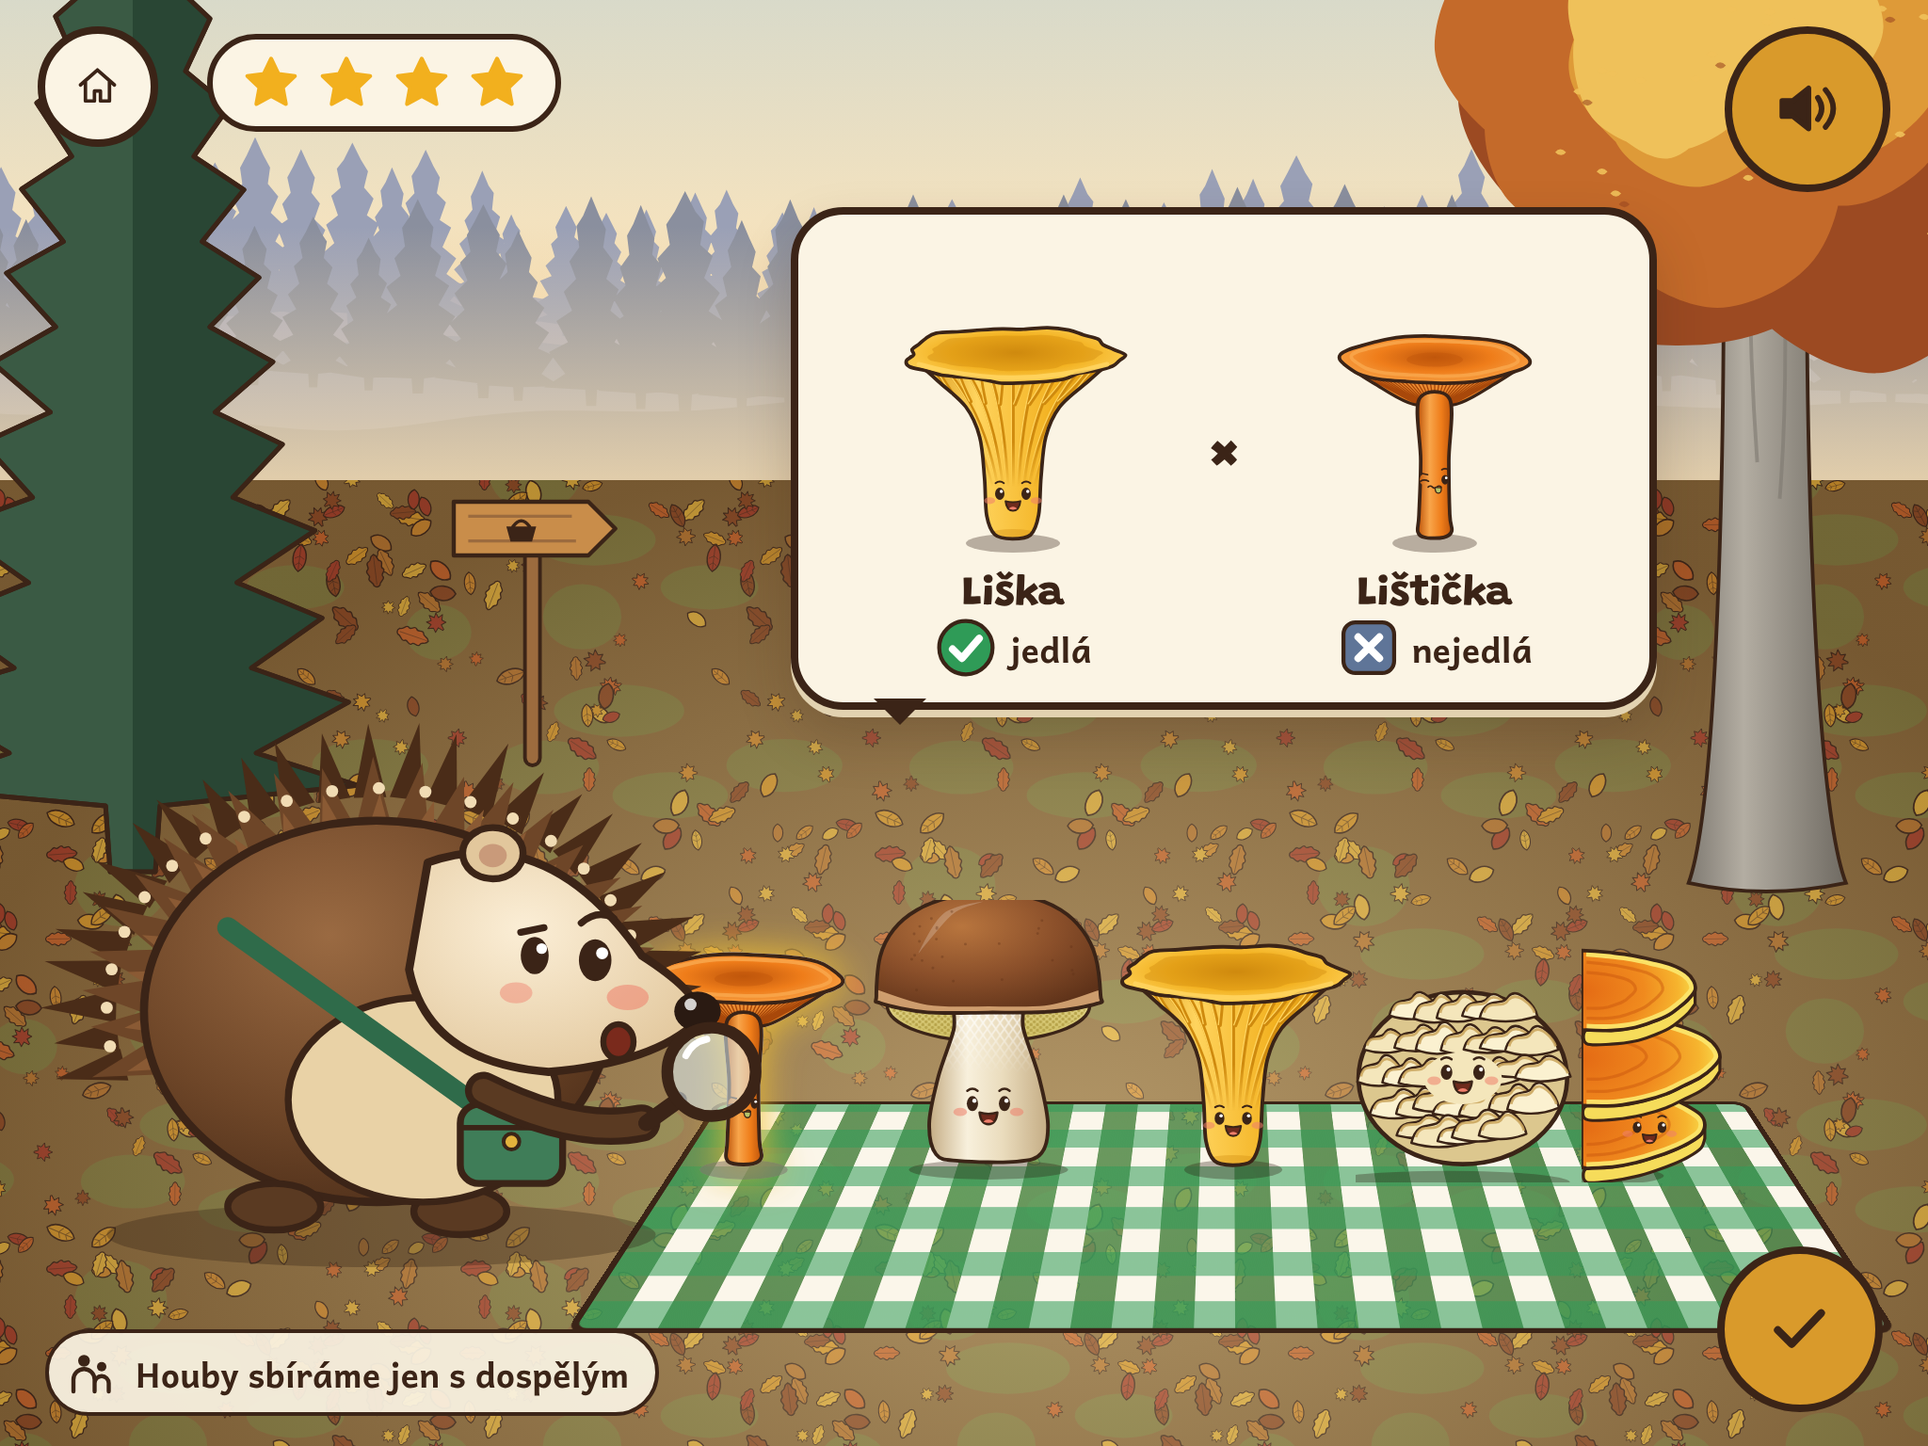
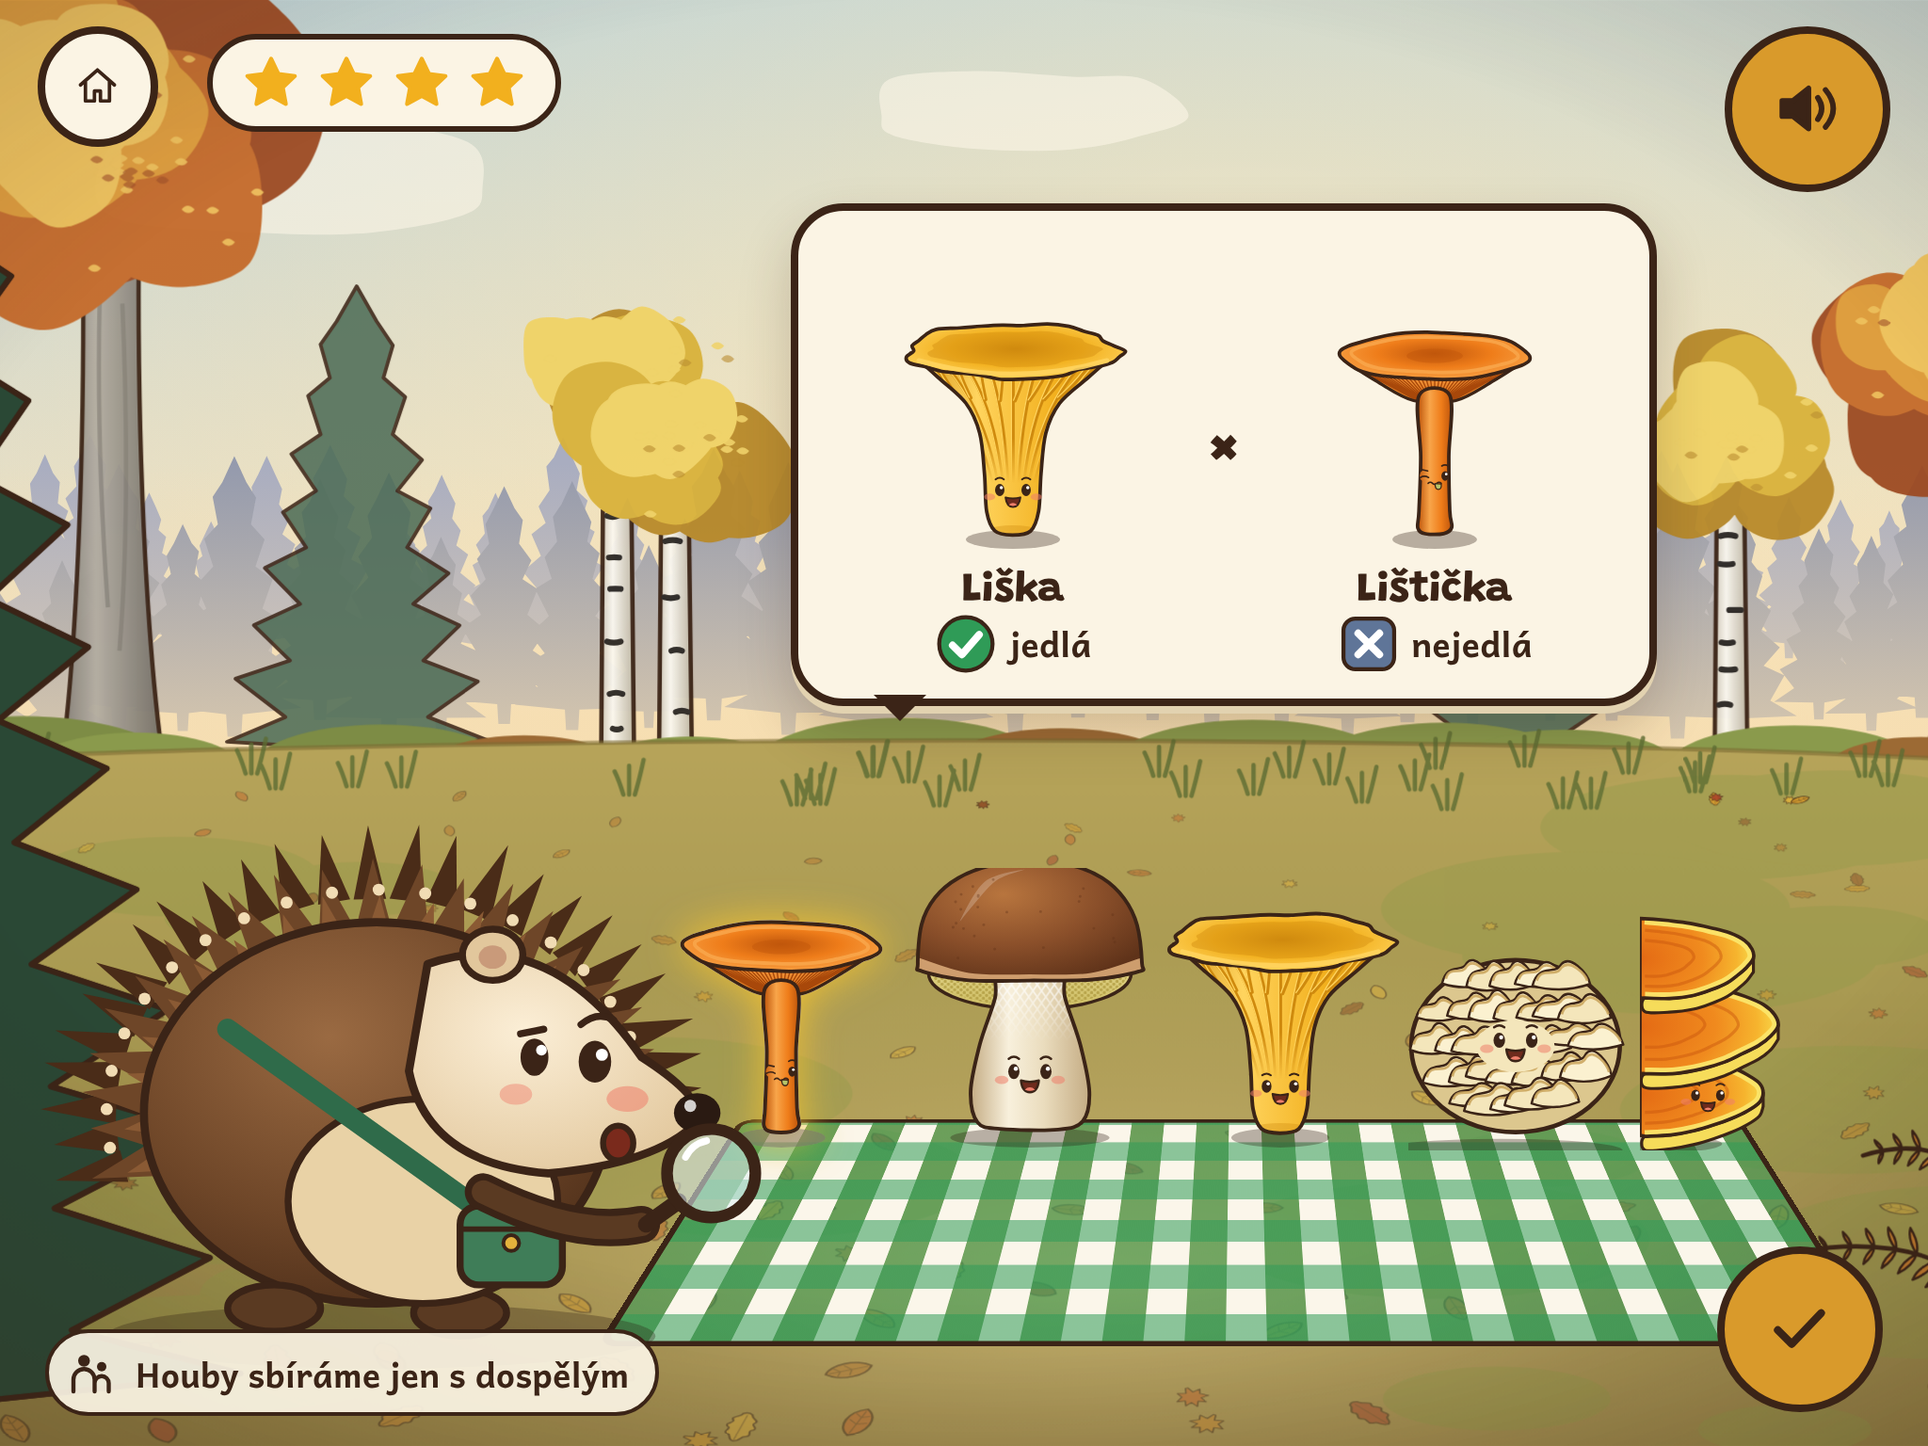
v2 design: paseka pro závěrečnou kontrolu, veverka šplhá po kmeni (designér)
Claude-Session: https://claude.ai/code/session_01WH2RXcc1LwoVwxRFSRQhpb

diff --git a/design/build_side.py b/design/build_side.py
@@ -463,10 +463,127 @@ def fork_sign():
     return doc("side-fork-sign", 220, 340, body, extra=' data-foot="100 330"', label="Rozcestí")
 
 
+# ---------------------------------------------------------------- end-check clearing (static backdrop)
+
+def end_clearing():
+    """Cosy forest clearing for the hedgehog's basket check. 1600x1000 (16:10); shown with
+    preserveAspectRatio xMidYMid slice, so 4:3 crops x 133..1467. Quiet zones (no detail, low contrast):
+      HUD top-left  x 0–45 % y 0–12 %      buttons top-right x 68–100 % y 0–40 %
+      hedgehog      x 0–36 % y 50–100 %    cloth + finds     x 28–100 % y 56–94 %
+    Interest lives in the tree line (y 30–56 %) and the outer side edges."""
+    R = seed(260)
+    W, H = 1600, 1000
+    HZ = 520                       # where the clearing floor meets the tree line
+    defs = ('<linearGradient id="ec-sky" x1="0" y1="0" x2="0" y2="1"><stop offset="0" stop-color="#bfd4d8"/>'
+            '<stop offset=".45" stop-color="#f3e2bf"/><stop offset="1" stop-color="#f6cf97"/></linearGradient>'
+            '<radialGradient id="ec-sun" cx="62%" cy="30%" r="55%"><stop offset="0" stop-color="#fff6dc" stop-opacity=".9"/>'
+            '<stop offset=".35" stop-color="#ffe9b8" stop-opacity=".45"/><stop offset="1" stop-color="#ffe9b8" stop-opacity="0"/></radialGradient>'
+            '<linearGradient id="ec-floor" x1="0" y1="0" x2="0" y2="1"><stop offset="0" stop-color="#b7a45a"/>'
+            '<stop offset=".35" stop-color="#a99a52"/><stop offset="1" stop-color="#8c7a40"/></linearGradient>'
+            '<radialGradient id="ec-pool" cx="56%" cy="74%" r="46%"><stop offset="0" stop-color="#f4e09a" stop-opacity=".55"/>'
+            '<stop offset=".6" stop-color="#e9cf86" stop-opacity=".2"/><stop offset="1" stop-color="#e9cf86" stop-opacity="0"/></radialGradient>'
+            '<radialGradient id="ec-vig" cx="50%" cy="45%" r="75%"><stop offset=".6" stop-color="#3b2417" stop-opacity="0"/>'
+            '<stop offset="1" stop-color="#3b2417" stop-opacity=".28"/></radialGradient>'
+            '<linearGradient id="ec-haze" x1="0" y1="0" x2="0" y2="1"><stop offset="0" stop-color="#f6dcae" stop-opacity="0"/>'
+            '<stop offset="1" stop-color="#f6dcae" stop-opacity=".8"/></linearGradient>'
+            '<linearGradient id="ec-birch" x1="0" y1="0" x2="1" y2="0"><stop offset="0" stop-color="#cfc8b8"/>'
+            '<stop offset=".35" stop-color="#fbf8f0"/><stop offset="1" stop-color="#bdb5a2"/></linearGradient>'
+            '<linearGradient id="ec-beech" x1="0" y1="0" x2="1" y2="0"><stop offset="0" stop-color="#7f7a72"/>'
+            '<stop offset=".35" stop-color="#b3ada2"/><stop offset="1" stop-color="#6f6a62"/></linearGradient>')
+    body = f'<rect width="{W}" height="{H}" fill="url(#ec-sky)"/><rect width="{W}" height="{H}" fill="url(#ec-sun)"/>'
+    cl = []
+    for cx, cy, sc in [(330, 130, 1.0), (840, 80, .7)]:          # clouds only left/centre (top-right stays calm)
+        pts = [(cx + 150 * sc * math.cos(2 * math.pi * i / 10) * (1 + R.uniform(-.15, .15)),
+                cy + 32 * sc * math.sin(2 * math.pi * i / 10) * (1 + R.uniform(-.2, .2)) - (14 * sc if math.sin(2 * math.pi * i / 10) < 0 else 0))
+               for i in range(10)]
+        cl.append(smooth(pts))
+    body += f'<path d="{"".join(cl)}" fill="#fff8ea" opacity=".55"/>'
+    # far misty spruce rows behind the clearing (continuous, so no grey band)
+    for base, hmin, hmax, step, col in [(HZ - 70, 90, 150, 40, "#a9adc0"), (HZ - 20, 120, 190, 50, "#949aad")]:
+        ds = []
+        x = -20
+        while x < W + 40:
+            h = R.uniform(hmin, hmax)
+            ds.append(bs.spruce(x, base + R.uniform(-8, 8), h, h * .25, 6))
+            x += step * R.uniform(.7, 1.2)
+        body += f'<path d="{"".join(ds)}" fill="{col}"/>'
+    body += f'<rect y="{HZ - 200}" width="{W}" height="230" fill="url(#ec-haze)"/>'
+    # mid tree line: fuller at the sides, two small birches near centre-left; right side kept low (buttons)
+    mids = ""
+    for kind, x, top in [("beech", 210, 120), ("spruce", 380, 0), ("birch", 560, 250), ("birch", 600, 300),
+                         ("spruce", 1180, 0), ("birch", 1330, 300), ("beech", 1500, 260)]:
+        b = HZ + 18
+        if kind == "spruce":
+            h = 340 if x < 800 else 260
+            d = bs.spruce(x, b, h, h * .26, 8)
+            mids += (f'<path d="{d}" fill="#4f6e58" stroke="{INK}" stroke-width="2.5" stroke-linejoin="round" opacity=".92"/>')
+        elif kind == "birch":
+            mids += bs.birch(x, b, top, 18).replace("url(#g-birch)", "url(#ec-birch)")
+            mids += bs.crown(x, top + 10, 90, ["#b8892a", "#d9b23a", "#f0d266"], n=6)
+        else:
+            mids += bs.beech(x, b, top, 40).replace("url(#g-beech)", "url(#ec-beech)")
+            mids += bs.crown(x, top - 10, 170 if x < 800 else 120, ["#9c4a22", "#c46a2a", "#de9a38", "#efc15a"], n=8)
+    body += f'<g opacity=".95">{mids}</g>'
+    # bushes along the clearing edge (soft, low)
+    bush = ""
+    for i in range(14):
+        x = i * W / 13 + R.uniform(-30, 30)
+        r = R.uniform(40, 70)
+        bush += f'<ellipse cx="{f(x)}" cy="{f(HZ + 12)}" rx="{f(r * 1.6)}" ry="{f(r * .55)}" fill="{R.choice(["#7d8c45", "#8a9a4c", "#9c6a34"])}"/>'
+    body += bush
+    # clearing floor: gentle bowl, warm moss/grass, sunlit pool where the cloth goes, very low-contrast texture
+    floor = smooth([(-20, HZ + 10), (300, HZ - 2), (800, HZ - 8), (1300, HZ - 2), (W + 20, HZ + 12)], closed=False) + f"L{W + 20} {H + 10}L-20 {H + 10}Z"
+    body += f'<path d="{floor}" fill="url(#ec-floor)"/><path d="{floor}" fill="url(#ec-pool)"/>'
+    body += f'<path d="{smooth([(-20, HZ + 10), (300, HZ - 2), (800, HZ - 8), (1300, HZ - 2), (W + 20, HZ + 12)], closed=False)}" fill="none" stroke="#7d6c34" stroke-width="3" opacity=".6"/>'
+    # moss patches (soft blobs, darker toward the edges)
+    mp = []
+    for _ in range(26):
+        x, y = R.uniform(0, W), R.uniform(HZ + 40, H)
+        rx = R.uniform(60, 160)
+        mp.append(f'<ellipse cx="{f(x)}" cy="{f(y)}" rx="{f(rx)}" ry="{f(rx * .28)}"/>')
+    body += f'<g fill="#8f9a48" opacity=".35">{"".join(mp)}</g>'
+    # scattered leaves, small and low-contrast in the quiet zones
+    syms = bs.LEAF_SYMBOLS.replace('id="lf-', 'id="ec-lf-')
+    defs += syms
+    ls = []
+    for _ in range(140):
+        x, y = R.uniform(0, W), R.uniform(HZ + 30, H)
+        quiet = (x > .28 * W and y > .56 * H) or (x < .36 * W and y > .5 * H)
+        k = R.choice(["ec-lf-beech", "ec-lf-oak", "ec-lf-birch", "ec-lf-maple"])
+        sc = (y - HZ) / (H - HZ) * .9 + .4
+        ls.append(f'<use href="#{k}" x="-16" y="-11" width="32" height="22" transform="translate({f(x)} {f(y)}) scale({f(sc)} {f(sc * .55)}) rotate({int(R.uniform(0, 360))})" '
+                  f'color="{R.choice(bs.LEAF_COLORS)}" opacity="{".45" if quiet else ".85"}"/>')
+    body += "".join(ls)
+    # grass tufts only along the tree-line edge and the outer bottom corners
+    gr = []
+    for _ in range(40):
+        x = R.uniform(0, W)
+        y = HZ + R.uniform(8, 40)
+        for k in range(3):
+            gr.append(f"M{f(x + k * 4)} {f(y)}q{f(-3 + k * 3)} -10 {f(-6 + k * 6)} -{f(16 + k * 4)}")
+    for x0 in (20, W - 120):
+        for _ in range(10):
+            x, y = x0 + R.uniform(0, 100), H - R.uniform(0, 30)
+            for k in range(3):
+                gr.append(f"M{f(x + k * 5)} {f(y)}q{f(-4 + k * 4)} -14 {f(-8 + k * 8)} -{f(30 + k * 8)}")
+    body += f'<path d="{"".join(gr)}" fill="none" stroke="#5d6d33" stroke-width="3" stroke-linecap="round" opacity=".8"/>'
+    # framing: a big spruce trunk + fern at the far left edge, a mossy stump at the far right edge (outside the 4:3 crop mostly)
+    big = bs.spruce(40, H + 40, 1100, 260, 12)
+    body += (f'<clipPath id="ec-r"><rect x="40" y="0" width="300" height="{H}"/></clipPath>'
+             f'<path d="{big}" fill="#3a5a44" stroke="{INK}" stroke-width="4" stroke-linejoin="round"/>'
+             f'<path d="{big}" fill="#24402f" opacity=".7" clip-path="url(#ec-r)"/>'
+             f'<path d="{big}" fill="none" stroke="{INK}" stroke-width="4" stroke-linejoin="round"/>')
+    body += f'<g transform="translate({W - 40} {H + 10})">{bs.fern(0, 0, .8, -1, "#c07a2e", "#94541f")}</g>'
+    body += f'<rect width="{W}" height="{H}" fill="url(#ec-vig)"/>'
+    zones = ' data-safe-hud="0 0 45 12" data-safe-buttons="68 0 100 40" data-safe-guide="0 50 36 100" data-safe-cloth="28 56 100 94"'
+    return doc("end-clearing", W, H, body, defs,
+               ' preserveAspectRatio="xMidYMid slice" data-crop-43="133 0 1334 1000"' + zones, "Mýtinka")
+
+
 if __name__ == "__main__":
     os.makedirs(OUT, exist_ok=True)
     files = {"side-sky.svg": side_sky(), "side-far.svg": side_far(), "side-mid.svg": side_mid(), "side-front.svg": side_front(),
-             "side-child.svg": child(), "side-jezek.svg": jezek_walk(), "side-fork-sign.svg": fork_sign()}
+             "side-child.svg": child(), "side-jezek.svg": jezek_walk(), "side-fork-sign.svg": fork_sign(), "end-clearing.svg": end_clearing()}
     for i, k in enumerate(["flat", "up", "crest", "down", "brook"]):
         files[f"side-ground-{k}.svg"] = ground_segment(k, 300 + i)
     for name, s in files.items():

diff --git a/design/build_vyprava.py b/design/build_vyprava.py
@@ -731,9 +731,17 @@ def veverka():
         disp = "" if i == 1 else ' display="none"'
         inner = far(lp) + body(lp[4]) + near(lp)
         groups.append(f'<g class="pose pose-{i}"{disp}><g transform="translate(0 {bob}) rotate({tilt} {W_ / 2} {H_ / 2})">{inner}</g></g>')
+    # climb-up-a-trunk set (v2.2 extra): head up, belly/feet toward a trunk on the RIGHT (grip line x ≈ 262).
+    # Show one .climb-N (and hide every .pose-N) while the billboard moves up the trunk; 3 frames at 10 fps.
+    climb_spec = [((50, 70), (-40, -55), (45, 70), (-35, -50), 0),     # reach: front paws up the trunk
+                  ((-15, 0), (40, 20), (-10, 5), (45, 25), 12),        # gather: hind paws pulled up
+                  ((20, 40), (-70, -85), (15, 35), (-75, -88), 4)]     # push: hind legs stretched
+    for i, lp in enumerate(climb_spec, start=1):
+        inner = far(lp) + body(lp[4]) + near(lp)
+        groups.append(f'<g class="climb climb-{i}" display="none"><g transform="translate(16 16) scale(.9) rotate(-80 {W_ / 2} {H_ / 2 - 10})">{inner}</g></g>')
     sh = f'<g class="shadow"><ellipse cx="{W / 2}" cy="{H - 8}" rx="{W * .28}" ry="8" fill="#2a1a10" opacity=".28"/></g>'
     return "veverka", svg("veverka", f"0 0 {W} {H}", sh + "".join(groups), defs, foot=(W / 2, H - 10), height_m=.35, label="Veverka",
-                          extra=' data-pose="1" data-poses="4" data-facing="right"')
+                          extra=' data-pose="1" data-poses="4" data-facing="right" data-climb-poses="3" data-climb-grip-x="262"')
 
 
 if __name__ == "__main__":

diff --git a/design/DESIGN-v2.md b/design/DESIGN-v2.md
@@ -21,7 +21,7 @@ Every step up is a place she can see, not a menu setting.
 | `design/contact-sheet.png` | all 25 characters with level, twin and edibility (2×) |
 | `design/build_side.py` | **new (v2.2)**: the 2D side-scroll kit → `art/vyprava/side-*.svg` (sky, far, mid, front, 5 ground segments, child, hedgehog walk, fork sign) |
 | `design/comp-vyprava.png` | the walk v2.2 (2D): child + hedgehog climbing a hill on the trail, hřib in moss half behind a fern, liška on a mossy rock, fly agaric at a stump with the stop bubble, a deer leaping in the mid layer, basket + back + „Dál“ (1024×768 @2×) |
-| `design/comp-vyprava-end.png` | the hedgehog checking the basket (1024×768 @2×) |
+| `design/comp-vyprava-end.png` | the hedgehog checking the basket, on the new `end-clearing.svg` backdrop (1024×768 @2×; also checked at 16:10) |
 | `design/comp-levels.png` | A: Les at L1 with the locked 4th door · B: level picker · C: unlock ceremony (3 × 1024×768) |
 
 All generators are deterministic, stdlib-only Python. Rebuilding twice gives byte-identical SVGs (verified). The 12 v1 characters other than pýchavka are byte-identical to the shipped files. Pýchavka changed only in its invisible anchors (see §6.2).
@@ -219,6 +219,22 @@ At the signpost clearing:
    - two buttons: „Ještě jednou“ (`i-retry`) and Home.
    - Stickers for any species she met but did not have yet are added (the same fly-to-album moment as v1).
 
+### 4.8a End-check backdrop: `art/vyprava/end-clearing.svg` (v2.2)
+A static, cosy forest clearing (1600×1000, `preserveAspectRatio="xMidYMid slice"`; at 4:3 the visible part is x 133–1467): misty spruce rows → a mid tree line (beeches, birches, spruces; fuller at the sides, low on the right) → a warm mossy clearing floor with a sunlit pool where the cloth lies, low-contrast leaves, grass only along the tree line and the outer bottom corners; a big framing spruce at the far left edge and a fern at the far right edge (mostly outside a 4:3 crop); soft vignette. It replaces sky + far + CSS floor (which left a flat grey band).
+**Safe areas (% of the viewport, valid for 4:3 … 16:10; also in the file as `data-safe-*` = x0 y0 x1 y1):**
+| Zone | x % | y % | What goes there |
+|---|---|---|---|
+| HUD top-left | 0–45 | 0–12 | home + stars pill (plain sky) |
+| buttons top-right | 68–100 | 0–40 | speaker, „Ještě jednou“ / „Domů“ panel (calm sky + haze, no crowns) |
+| twin card | 38–70 | 10–40 | Dvojník card over the tree line (fine; the tree line is soft) |
+| hedgehog | 0–36 | 50–100 | Ježek (plain floor; only the framing trunk at the very edge) |
+| cloth + finds | 28–100 | 56–94 | gingham cloth lower-middle, finds standing on it (sunlit pool centred at 56 % / 74 %) |
+| adult line | 0–40 | 90–100 | „Houby sbíráme jen s dospělým“ pill |
+| tree line / interest | 0–100 | 30–56 | decorative only |
+
+### 4.10a Squirrel climb frames (v2.2)
+`art/vyprava/veverka.svg` keeps its 4 run poses (byte-identical) and adds `.climb-1..3` (reach, gather, push; hidden by default): head up, belly and paws toward a trunk on the **right**, paw grip line at **x ≈ 262** (`data-climb-grip-x`), `data-climb-poses="3"`. To climb: hide all `.pose-N`, align the trunk's left edge with the grip line, show `.climb-1→2→3` at 10 fps while moving the sprite up ≈ 40 units per cycle; mirror for a trunk on the left.
+
 ### 4.9 Round composition (for the programmer's generator)
 - **Count:** 8 stations at L1 and 10 at L2/L3. About 60 % edible, ≥ 2 poisonous (≥ 1 at L1 is a red or green amanita), ≥ 1 inedible.
 - **Wood growers** stand at the foot of a stump or tree flat, never in the open.
@@ -365,7 +381,8 @@ All renders were made with Playwright and Chromium, then looked at; the final PN
   - Trunks showed in the basket, so I added `.host` and `data-pick-box`.
 - **v2.1 trail kit + `comp-vyprava.png` (superseded by v2.2):** kit overview + all 12 animal poses rendered and looked at. Fixes: moss cushions were flat slabs → domed with tufts over the whole surface; the moss collar was a trapezoid → lumpy top; the root flare was sticks → tapered roots. The comp is a real perspective projection of a winding, climbing heightfield (flat-shaded faces, moss/litter colour mix, fog) with the kit billboards placed by `data-foot`/`data-height-m`; iterations: the trees walled in the view → the trail corridor was cleared to 8 m, the hill was raised so the crest reads, the deer was moved onto the trail in its flight pose, and props were kept off the hero mushrooms. verified against screenshot at `design/comp-vyprava.png`.
 - **v2.2 2D kit + `comp-vyprava.png` (replaced again):** seam test = far/mid/front tiled ×3 and a 6-segment ground chain (flat-up-crest-down-brook-flat), zoomed at the tile edge: no visible seam. Child: first version had adult proportions and the hat band covered the eye → bigger head (×1.22), shorter limbs, band raised; `look` hand moved to the brow. Comp iterations: a hairline seam where two ground segments meet → 2-unit overlap; the fly agaric was cut off at the right edge and the bubble covered the liška → items moved left, bubble lifted over the agaric; pinkish bush blobs in the mid layer → muted. verified against screenshot at `design/comp-vyprava.png`.
-- **`comp-vyprava-end.png`:** the finds now stand on the cloth, not behind it, and the mistake sits under the magnifier.
+- **v2.2 end clearing:** rendered at 1024×768 and 1280×800 with the hedgehog, cloth, finds, twin card and buttons placed by the safe-area percentages; no grey band, quiet zones hold. `comp-vyprava-end.png` replaced. Squirrel climb frames rendered against a mock trunk; first pass clipped the head at the top and the paws missed the trunk → scaled .9, shifted, grip x recalibrated; run poses verified byte-identical.
+- **`comp-vyprava-end.png` (v2.0):** the finds now stand on the cloth, not behind it, and the mistake sits under the magnifier.
 - **`comp-levels.png`:** the level text pill collided with the 4-door tray, so it became rosette-only. The padlock covered the "Mistr houbař" title, and the title overlapped the gift card; both moved.
 - **Final artefacts:**
   - verified against screenshot at `design/contact-sheet.png`
